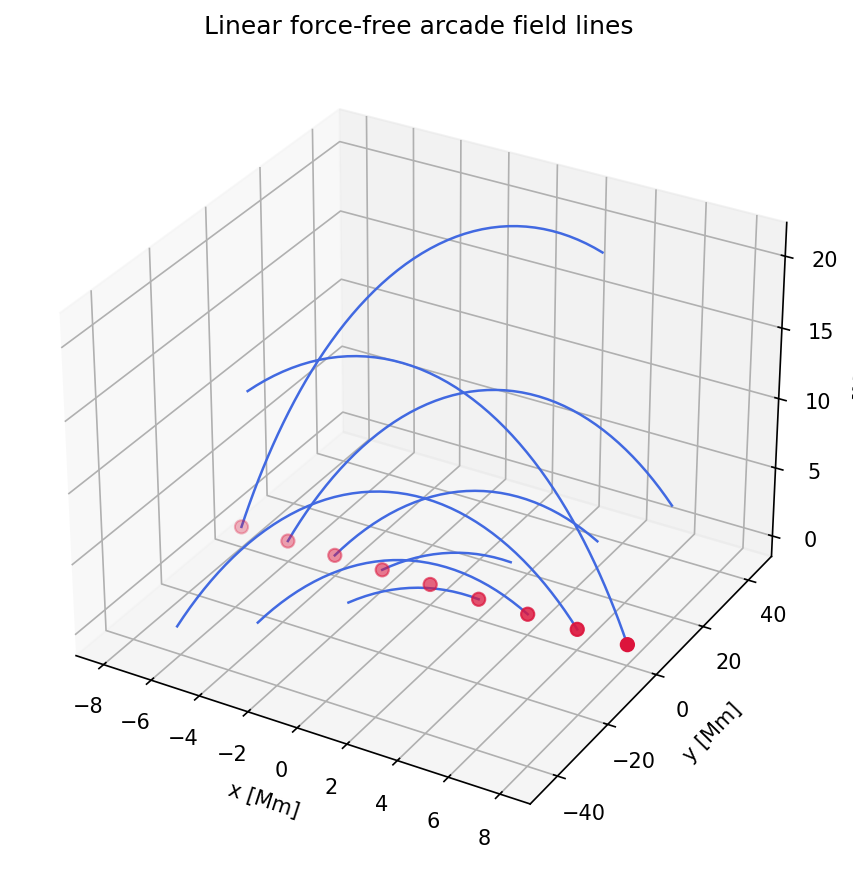
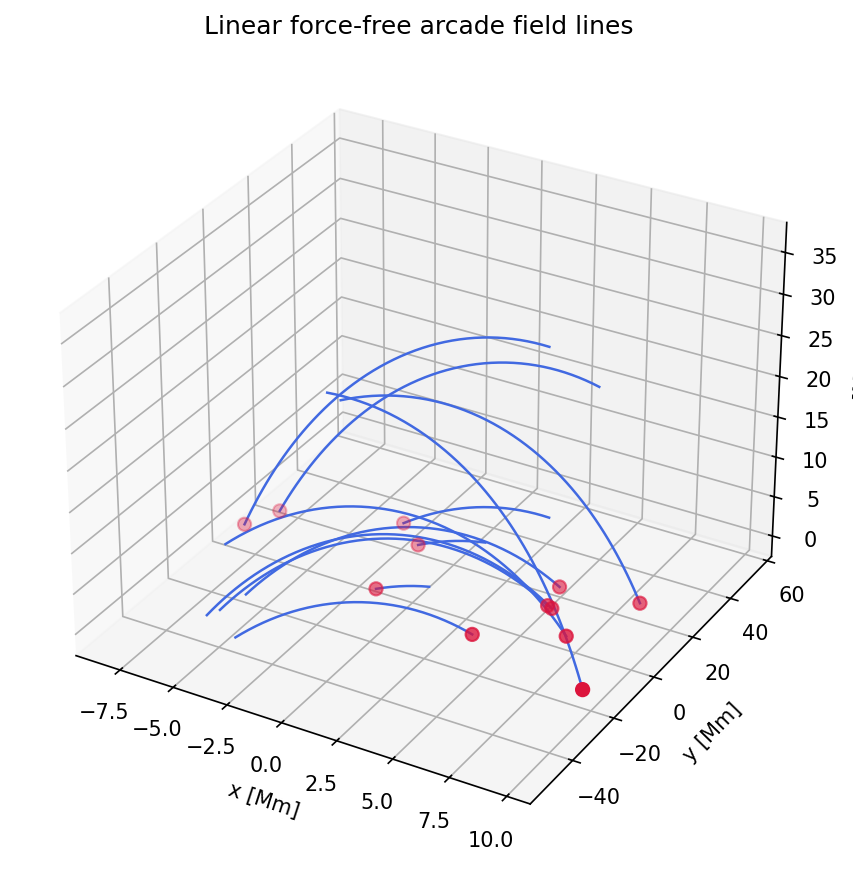
refactor: randomize seed footpoints, remove CLI, add step-by-step docs
- Scatter seed points randomly in x-y at z=0 (fixed rng seed for
  reproducibility) instead of a uniform line along y=0
- Remove main() / _build_parser() and [project.scripts] entirely;
  no CLI entry point is needed per SPEC.md
- Rewrite demo_arcade.rst with four-step tracing example that shows
  explicit import of trace_field_lines and build_arcade_field
- Regenerate docs/source/_static/arcade_demo.png with new seed layout

diff --git a/src/wind3d_field_lines/demo_arcade.py b/src/wind3d_field_lines/demo_arcade.py
@@ -2,9 +2,7 @@
 
 from __future__ import annotations
 
-import argparse
 import math
-from collections.abc import Sequence
 from dataclasses import dataclass
 from pathlib import Path
 
@@ -30,11 +28,8 @@ class ArcadeDemoConfig:
     y_max: float = 40.0
     z_min: float = 0.0
     z_max: float = 65.0
-    seed_count: int = 9
-    seed_x_min: float = -8.0
-    seed_x_max: float = 8.0
-    seed_y: float = 0.0
-    seed_z: float = 0.0
+    seed_count: int = 12
+    seed_rng_seed: int = 42
     lx_bln: int = 101
     lcen_bln: int = 51
     margin: int = 0
@@ -166,9 +161,21 @@ def run_demo(config: ArcadeDemoConfig) -> int:
     dy_profile = np.full(config.nz, dy_step, dtype=np.float64)
     dz_profile = np.full(config.nz, dz_step, dtype=np.float64)
 
-    seed_x = np.linspace(config.seed_x_min, config.seed_x_max, config.seed_count)
-    seed_y = np.full(config.seed_count, config.seed_y, dtype=np.float64)
-    seed_z = np.full(config.seed_count, config.seed_z, dtype=np.float64)
+    # Scatter seed points randomly over the photospheric surface (z = 0).
+    # Avoid |x| < 0.5 Mm near the polarity inversion line where Bz ~ 0.
+    rng = np.random.default_rng(config.seed_rng_seed)
+    x_half = config.x_max * 0.85
+    y_half = config.y_max * 0.6
+    seed_x_raw = rng.uniform(-x_half, x_half, config.seed_count)
+    # Nudge seeds very close to the PIL away from it so tracing is meaningful.
+    pil_margin = 0.5
+    seed_x = np.where(
+        np.abs(seed_x_raw) < pil_margin,
+        np.sign(seed_x_raw + 1e-9) * pil_margin,
+        seed_x_raw,
+    )
+    seed_y = rng.uniform(-y_half, y_half, config.seed_count)
+    seed_z = np.zeros(config.seed_count, dtype=np.float64)
 
     icen = _to_index(seed_x, config.x_min, dx_step)
     jcen = _to_index(seed_y, config.y_min, dy_step)
@@ -246,84 +253,3 @@ def run_demo(config: ArcadeDemoConfig) -> int:
 
     plt.close(fig)
     return 0
-
-
-def _build_parser() -> argparse.ArgumentParser:
-    parser = argparse.ArgumentParser(
-        description=(
-            "Build a linear force-free arcade magnetic field and save it to a .npz file."
-        )
-    )
-    parser.add_argument(
-        "--ba", type=float, default=6.0, help="Field strength scale Ba [G]."
-    )
-    parser.add_argument(
-        "--la", type=float, default=12.0, help="Arcade half-width scale La [Mm]."
-    )
-    parser.add_argument(
-        "--decay-a", type=float, default=30.0, help="Vertical decay length a [Mm]."
-    )
-    parser.add_argument("--nx", type=int, default=65, help="Number of x-grid points.")
-    parser.add_argument("--ny", type=int, default=65, help="Number of y-grid points.")
-    parser.add_argument("--nz", type=int, default=65, help="Number of z-grid points.")
-    parser.add_argument(
-        "--x-min", type=float, default=-12.0, help="Grid x minimum [Mm]."
-    )
-    parser.add_argument(
-        "--x-max", type=float, default=12.0, help="Grid x maximum [Mm]."
-    )
-    parser.add_argument(
-        "--y-min", type=float, default=-40.0, help="Grid y minimum [Mm]."
-    )
-    parser.add_argument(
-        "--y-max", type=float, default=40.0, help="Grid y maximum [Mm]."
-    )
-    parser.add_argument(
-        "--z-min", type=float, default=0.0, help="Grid z minimum [Mm]."
-    )
-    parser.add_argument(
-        "--z-max", type=float, default=65.0, help="Grid z maximum [Mm]."
-    )
-    parser.add_argument(
-        "--output",
-        type=str,
-        required=True,
-        help="Output .npz file path for the field data.",
-    )
-    return parser
-
-
-def main(argv: Sequence[str] | None = None) -> int:
-    """Entry point for the wind3d-build-arcade-field command.
-
-    Builds a linear force-free arcade magnetic field on a regular grid and
-    saves the result to a NumPy ``.npz`` file containing arrays ``x``, ``y``,
-    ``z``, ``bx``, ``by``, and ``bz``.
-    """
-    parser = _build_parser()
-    args = parser.parse_args(argv)
-
-    x = np.linspace(args.x_min, args.x_max, args.nx, dtype=np.float64)
-    y = np.linspace(args.y_min, args.y_max, args.ny, dtype=np.float64)
-    z = np.linspace(args.z_min, args.z_max, args.nz, dtype=np.float64)
-
-    bx, by, bz = build_arcade_field(
-        ba=args.ba,
-        la=args.la,
-        decay_a=args.decay_a,
-        x=x,
-        y=y,
-        z=z,
-    )
-
-    out_path = Path(args.output)
-    out_path.parent.mkdir(parents=True, exist_ok=True)
-    np.savez(out_path, x=x, y=y, z=z, bx=bx, by=by, bz=bz)
-    print(f"Saved arcade field to: {out_path}")
-    print(f"  grid: ({args.nx}, {args.ny}, {args.nz})")
-    print(f"  ba={args.ba} G, la={args.la} Mm, decay_a={args.decay_a} Mm")
-    return 0
-
-
-if __name__ == "__main__":
-    raise SystemExit(main())

diff --git a/docs/source/demo_arcade.rst b/docs/source/demo_arcade.rst
@@ -5,10 +5,9 @@ This page demonstrates how to use ``wind3d_field_lines`` to trace and visualize
 magnetic field lines in a linear force-free arcade field.
 
 Physics model
-=============
+-------------
 
-The demo uses the analytic field described in ``arcade_field_demo.md``.  Given
-arcade half-width :math:`L_a`, vertical decay length :math:`a`, and field
+Given arcade half-width :math:`L_a`, vertical decay length :math:`a`, and field
 strength scale :math:`B_a`, the dimensionless parameters are:
 
 .. math::
@@ -35,50 +34,114 @@ Default parameters (coordinates in Mm, field amplitude in G):
 
 The model is valid only when :math:`C = 2L_a/(\pi a) \leq 1`.
 
-Usage example
-=============
+Step-by-step tracing example
+-----------------------------
 
-The following snippet reproduces the figure below.  No command-line call is
-needed — you can embed this directly in a script or notebook:
+The following example traces magnetic field lines by importing the module
+directly, without any command-line call.
 
-.. code-block:: python
-
-   import numpy as np
-   import matplotlib.pyplot as plt
-   from wind3d_field_lines.demo_arcade import (
-       ArcadeDemoConfig,
-       build_arcade_field,
-       run_demo,
-   )
-
-   # Run with default parameters and display interactively
-   config = ArcadeDemoConfig()
-   run_demo(config)
-
-To save the figure to a file instead:
-
-.. code-block:: python
-
-   config = ArcadeDemoConfig(output="arcade_demo.png")
-   run_demo(config)
-
-You can also call :func:`build_arcade_field` directly to obtain field
-components for your own analysis:
+**1. Build the grid and field**
 
 .. code-block:: python
 
    import numpy as np
    from wind3d_field_lines.demo_arcade import build_arcade_field
 
+   # Define a regular Cartesian grid (coordinates in Mm)
    x = np.linspace(-12.0, 12.0, 65)
    y = np.linspace(-40.0, 40.0, 65)
    z = np.linspace(0.0, 65.0, 65)
 
+   # Compute the analytic linear force-free arcade field
    bx, by, bz = build_arcade_field(ba=6.0, la=12.0, decay_a=30.0, x=x, y=y, z=z)
    print(bx.shape)  # (65, 65, 65)
 
+**2. Prepare seed points and grid spacings**
+
+.. code-block:: python
+
+   from wind3d_field_lines import trace_field_lines
+
+   dx = float(x[1] - x[0])
+   dy = float(y[1] - y[0])
+   dz = float(z[1] - z[0])
+
+   # Grid-spacing profiles along z (uniform here)
+   dx_profile = np.full(z.size, dx)
+   dy_profile = np.full(z.size, dy)
+   dz_profile = np.full(z.size, dz)
+
+   # Scatter 12 seed points randomly over the photospheric base (z = 0)
+   rng = np.random.default_rng(42)
+   seed_x = rng.uniform(-10.0, 10.0, 12)
+   seed_y = rng.uniform(-24.0, 24.0, 12)
+   seed_z = np.zeros(12)
+
+   # Convert physical coordinates to 1-based grid indices
+   icen = (seed_x - x[0]) / dx + 1.0
+   jcen = (seed_y - y[0]) / dy + 1.0
+   kcen = (seed_z - z[0]) / dz + 1.0
+
+**3. Trace the field lines**
+
+.. code-block:: python
+
+   result = trace_field_lines(
+       bx=bx, by=by, bz=bz,
+       dx=dx_profile, dy=dy_profile, dz=dz_profile,
+       icen_bln=icen, jcen_bln=jcen, kcen_bln=kcen,
+       lcen_bln=51,   # centre index along each traced line
+       lx_bln=101,    # total number of points per line
+   )
+   # result.i/j/k  : traced grid indices, shape (n_seeds, lx_bln)
+   # result.lmin/lmax : valid range for each line
+
+**4. Visualize with matplotlib**
+
+.. code-block:: python
+
+   import matplotlib.pyplot as plt
+
+   # Convert grid indices back to physical coordinates
+   x_line = x[0] + (result.i - 1.0) * dx
+   y_line = y[0] + (result.j - 1.0) * dy
+   z_line = z[0] + (result.k - 1.0) * dz
+
+   fig = plt.figure(figsize=(9, 7))
+   ax = fig.add_subplot(111, projection="3d")
+
+   for n in range(result.nx):
+       lmin = int(max(1, result.lmin[n]))
+       lmax = int(min(result.lx, result.lmax[n]))
+       if lmax - lmin + 1 < 2:
+           continue
+       ax.plot(
+           x_line[n, lmin - 1 : lmax],
+           y_line[n, lmin - 1 : lmax],
+           z_line[n, lmin - 1 : lmax],
+           color="royalblue", linewidth=1.2,
+       )
+
+   ax.scatter(seed_x, seed_y, seed_z, color="crimson", s=40)
+   ax.set_xlabel("x [Mm]")
+   ax.set_ylabel("y [Mm]")
+   ax.set_zlabel("z [Mm]")
+   ax.set_title("Linear force-free arcade field lines")
+   plt.show()
+
+You can also call :func:`~wind3d_field_lines.demo_arcade.run_demo` with an
+:class:`~wind3d_field_lines.demo_arcade.ArcadeDemoConfig` to run all of the
+above steps at once:
+
+.. code-block:: python
+
+   from wind3d_field_lines.demo_arcade import ArcadeDemoConfig, run_demo
+
+   run_demo(ArcadeDemoConfig())                          # interactive
+   run_demo(ArcadeDemoConfig(output="arcade_demo.png"))  # save to file
+
 Visualization
-=============
+-------------
 
 .. figure:: _static/arcade_demo.png
    :alt: Traced field lines of a linear force-free arcade field
@@ -86,33 +149,15 @@ Visualization
    :align: center
 
    Magnetic field lines of the linear force-free arcade (blue) traced from
-   nine seed points at the photospheric base (red dots).  Coordinates are
-   in Mm and the field amplitude scale is 6 G.
-
-Building field data from the command line
-=========================================
-
-The package also provides a command-line tool that saves the arcade field
-to a NumPy ``.npz`` file for offline analysis:
-
-.. code-block:: bash
-
-   wind3d-build-arcade-field --output arcade_field.npz
-
-   # Custom parameters
-   wind3d-build-arcade-field --ba 8.0 --la 15.0 --decay-a 25.0 \
-       --nx 33 --ny 33 --nz 33 \
-       --output arcade_field_custom.npz
-
-The output file contains arrays ``x``, ``y``, ``z``, ``bx``, ``by``, ``bz``
-on the requested grid.  Run ``wind3d-build-arcade-field --help`` for the full
-list of options.
+   12 randomly scattered seed points at the photospheric base (red dots).
+   Coordinates are in Mm; field amplitude scale is 6 G.
 
 Notes
-=====
+-----
 
-- If :math:`2L_a / (\pi a) > 1`, the model is invalid and both
-  :func:`build_arcade_field` and the CLI exit with an error.
-- The field is independent of :math:`y` by construction; the
-  :math:`y` dimension is retained so that the full 3-D tracer can be
-  used without modification.
+- If :math:`2L_a / (\pi a) > 1`, the model is invalid and
+  :func:`~wind3d_field_lines.demo_arcade.build_arcade_field` raises a
+  :exc:`ValueError`.
+- The analytic field is independent of :math:`y` by construction; the
+  :math:`y` dimension is retained so that the full 3-D tracer can be used
+  without modification.
